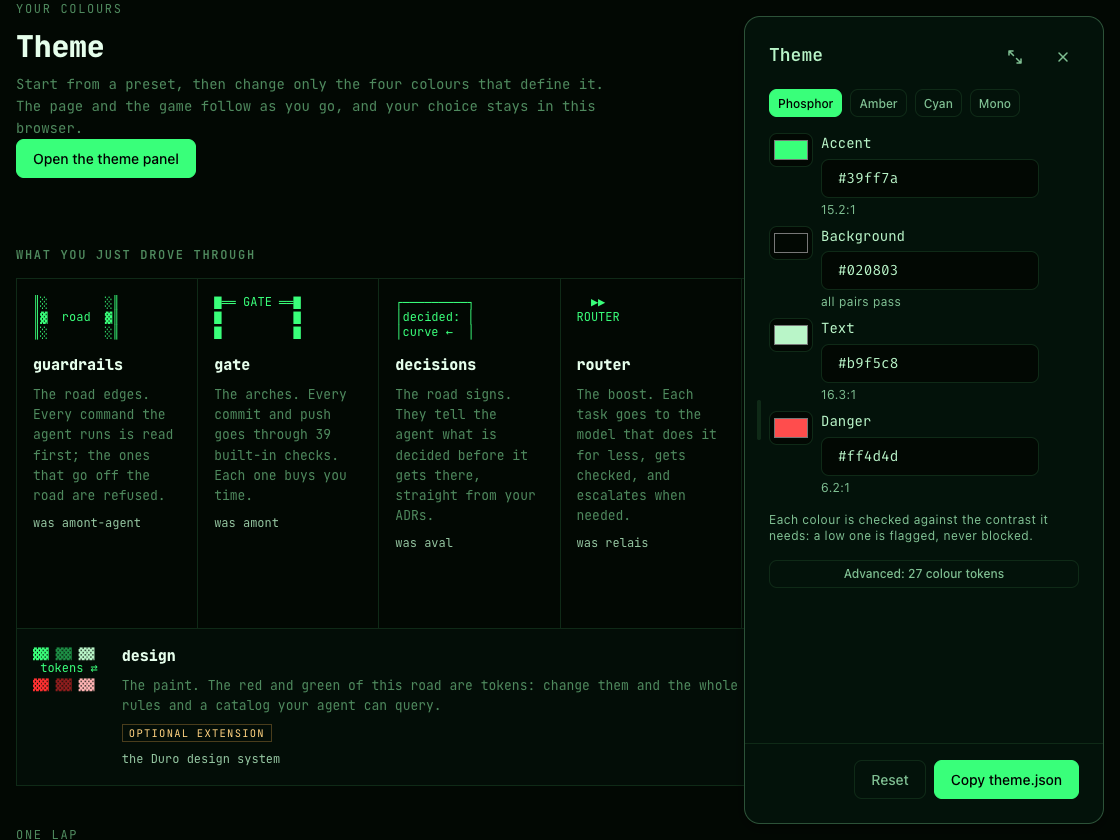
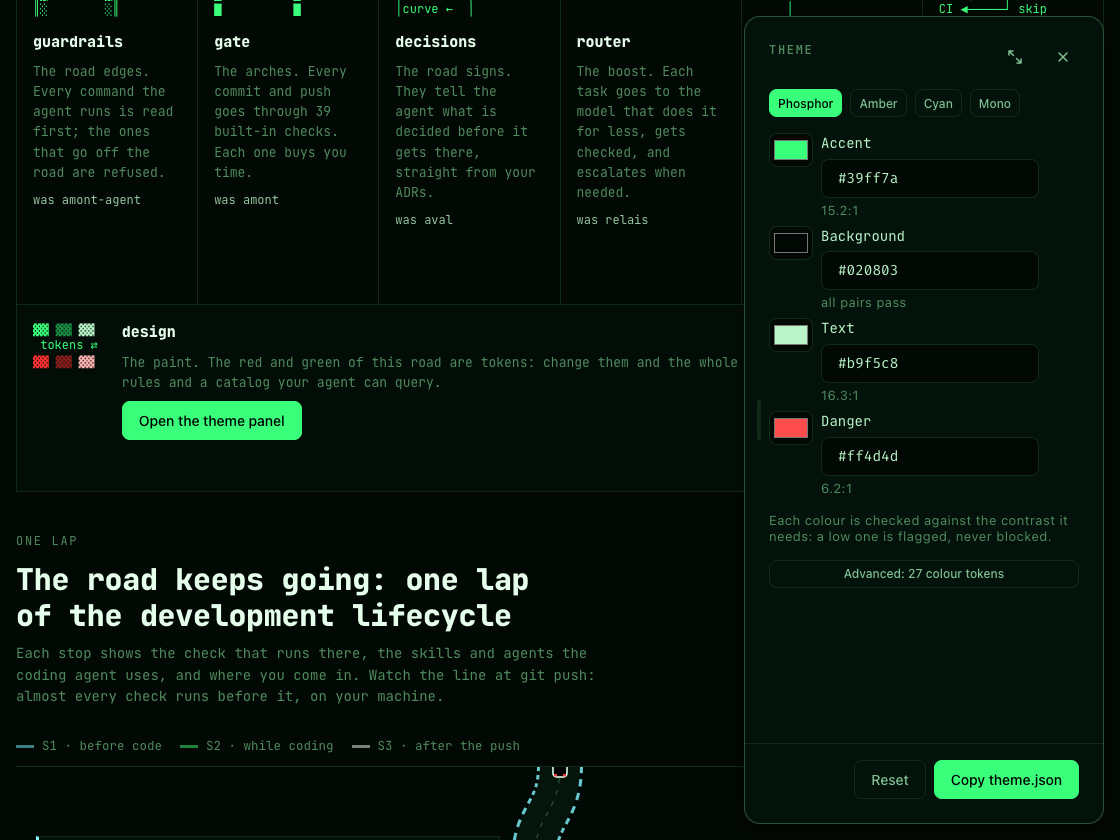
feat: the panel button lives on the design card

diff --git a/index.html b/index.html
@@ -180,6 +180,7 @@ body { font-family: var(--mono); font-size: 14px; line-height: 1.55; margin: 0 }
 .tbtn { font: inherit; font-size: 13px; padding: 8px 14px; background: transparent; color: var(--ink); border: 1px solid var(--dim); border-radius: 4px; cursor: pointer }
 .tbtn.primary { background: var(--glow); color: var(--duro-color-accent-contrast); border-color: var(--glow); font-weight: 600 }
 .tbtn:focus-visible { outline: 2px solid var(--glow); outline-offset: 2px }
+.part .theme-slot { justify-self: start }
 .theme-msg { margin: 10px 0 0; min-height: 1.4em; font-size: 12.5px; color: var(--dim) }
 .theme-msg.warn { color: var(--you) }
 @media (pointer: coarse) { .tbtn { min-height: 44px } }
@@ -187,7 +188,7 @@ body { font-family: var(--mono); font-size: 14px; line-height: 1.55; margin: 0 }
 
 <header class="top pad">
   <span class="logo">Green<span>/</span>Harness</span>
-  <ul><li><a href="#parts">Parts</a></li><li id="themeNav" hidden><a href="#theme" id="themeLink">Theme</a></li><li><a href="#install">Install</a></li><li><a href="https://github.com/greenharness">GitHub</a></li></ul>
+  <ul><li><a href="#parts">Parts</a></li><li id="themeNav" hidden><a href="#themeLoad" id="themeLink">Theme</a></li><li><a href="#install">Install</a></li><li><a href="https://github.com/greenharness">GitHub</a></li></ul>
 </header>
 
 <div class="pad">
@@ -212,16 +213,6 @@ body { font-family: var(--mono); font-size: 14px; line-height: 1.55; margin: 0 }
     </div>
   </section>
 
-  <section class="theme" id="theme" aria-labelledby="themeTitle" hidden>
-    <div class="sec-head">
-      <span class="kick">your colours</span>
-      <h2 id="themeTitle">Theme</h2>
-      <p>Start from a preset, then change only the four colours that define it. The page and the game follow as you go, and your choice stays in this browser.</p>
-    </div>
-    <div id="themePane"><button type="button" class="tbtn primary" id="themeLoad">Open the theme panel</button></div>
-    <p class="theme-msg" id="themeMsg" role="status" aria-live="polite"></p>
-  </section>
-
   <section class="legend" id="parts">
     <h2>What you just drove through</h2>
     <div class="parts">
@@ -244,7 +235,7 @@ ROUTER</pre><b>router</b><span>The boost. Each task goes to the model that does 
 CI ◀─────┘ skip</pre><b>attest</b><span>The time bonus. What the gate proved on your laptop is signed, so CI skips it instead of running it again. Anything unsigned still runs.</span><small>signatures come from gate</small></div>
       <div class="part opt wide"><pre class="swatch"><span class="g1">▓▓</span> <span class="g2">▓▓</span> <span class="g3">▓▓</span>
  tokens ⇄
-<span class="r1">▓▓</span> <span class="r2">▓▓</span> <span class="r3">▓▓</span></pre><b>design</b><span>The paint. The red and green of this road are tokens: <a href="#theme">change them</a> and the whole world takes another look. Components, lint rules and a catalog your agent can query.</span><span class="optional">optional extension</span><small>the Duro design system</small></div>
+<span class="r1">▓▓</span> <span class="r2">▓▓</span> <span class="r3">▓▓</span></pre><b>design</b><span>The paint. The red and green of this road are tokens: <a href="#themeLoad" id="themeInline">change them</a> and the whole world takes another look. Components, lint rules and a catalog your agent can query.</span><div id="themePane" class="theme-slot"><button type="button" class="tbtn primary" id="themeLoad">Open the theme panel</button></div><p class="theme-msg" id="themeMsg" role="status" aria-live="polite"></p></div>
     </div>
   </section>
 
@@ -323,7 +314,7 @@ CI ◀─────┘ skip</pre><b>attest</b><span>The time bonus. What the g
   var G = window.ghTheme;
   if (!G) return;
   var $ = function (id) { return document.getElementById(id); };
-  var section = $("theme"), link = $("themeLink"), btn = $("themeLoad"), msg = $("themeMsg"), loading = false;
+  var link = $("themeLink"), inline = $("themeInline"), btn = $("themeLoad"), msg = $("themeMsg"), loading = false;
   // The panel is Duro's Pane, bundled with React: about 180 KB gzipped, so it loads on the first press, not with the page.
   function load() {
     if (loading) return;
@@ -342,6 +333,8 @@ CI ◀─────┘ skip</pre><b>attest</b><span>The time bonus. What the g
     document.head.appendChild(css); document.head.appendChild(js);
   }
   btn.addEventListener("click", load);
+  // The nav link and the sentence in the design card open the panel too.
+  [link, inline].forEach(function (a) { a.addEventListener("click", function (e) { e.preventDefault(); load(); }); });
   // A hover or a focus on the way to the button fetches the files early; only a press opens the panel.
   function prefetch() {
     [["theme-pane.js", "script"], ["theme-pane.css", "style"]].forEach(function (a) {
@@ -355,7 +348,7 @@ CI ◀─────┘ skip</pre><b>attest</b><span>The time bonus. What the g
     link.textContent = r.custom ? "Theme · Custom" : s.preset === "phosphor" ? "Theme" : "Theme · " + G.PRESETS[s.preset].label;
   }
   G.onChange(label); label();
-  section.hidden = false; $("themeNav").hidden = false;
+  $("themeNav").hidden = false;
 })();
 </script>
 

diff --git a/docs/plans/2026-11-01-theme-pane.md b/docs/plans/2026-11-01-theme-pane.md
@@ -26,6 +26,8 @@ Phase 4 of the canonical plan: the site's theme section is rebuilt on Duro's `Pa
 - **The pane wears the theme it edits** (`ThemeProvider overrides`), and is a bottom sheet under
   640 px, a side pane above.
 
+- **No Theme section** (the person's review of the preview, 2026-11-01). The "your colours" section, its heading and its sentence are gone. The "Open the theme panel" button sits on the design card, where the tag "optional extension" and the line "the Duro design system" were: every part of the harness is an extension, so the tag said nothing. The card's "change them" link and the nav's "Theme" link open the panel too. The "optional" labels in the lifecycle table and the lane list are not touched.
+
 ## Verification (observed 2026-11-01)
 
 | Check           | Input                                    | Expected                                                               | Actual         |
